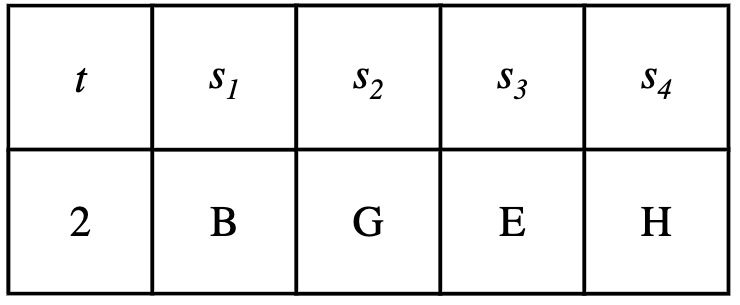
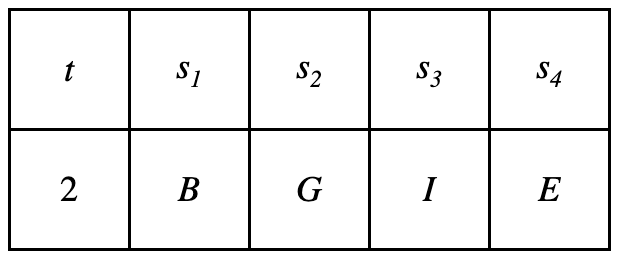
revise the example

diff --git a/docs/website/src/intro.md b/docs/website/src/intro.md
@@ -42,7 +42,7 @@ The prover begins by computing $H_1(1)$ to determine the first bin to explore.
 Suppose $H_1(1) = 3$, leading the prover to examine **Bin 3**. 
 From this bin, an element is selected, and suppose $A$ is chosen. 
 
-![](img/t11.png)
+![](img/t101.png)
 
 At this point, the current sequence is $(t, s_1) = (1, A)$.
 
@@ -53,9 +53,9 @@ At this point, the current sequence is $(t, s_1) = (1, A)$.
 Next, the prover computes $H_1(1, A)$ to identify the next bin. 
 Suppose $H_1(1, A) = 6$, directing the prover to **Bin 6**. 
 
-![](img/t12.png)
+![](img/t102.png)
 
-From this bin, an element is selected, and suppose $C$ is chosen, extending the sequence to $(t, s_1, s_2) = (1, A, C)$.
+This bin contains only one element, $C$, which extends the sequence to $(t, s_1, s_2) = (1, A, C)$.
 
 <p align="center">
   <img src="img/proof-12.png" alt="Alt Text" style="width:40%;">
@@ -64,19 +64,37 @@ From this bin, an element is selected, and suppose $C$ is chosen, extending the 
 Continuing the process, the prover computes $H_1(1, A, C)$ to find the next bin. 
 Suppose $H_1(1, A, C) = 9$, directing the prover to **Bin 9**. 
 
-![](img/t13.png)
+![](img/t103.png)
 
 However, **Bin 9 is empty**, meaning there is no valid extension for this sequence. 
+As a result, the prover **backtracks** to **Bin 6**.
+There is only one element in **Bin 6**, which is $C$.
+So, the prover **backtracks** to **Bin 3**.
+This time, instead of $A$, prover selects $J$ from **Bin 3**.
+
+![](img/t111.png)
+
+At this point, the current sequence is $(t, s_1) = (1, J)$.
+
+<p align="center">
+  <img src="img/proof-112.png" alt="Alt Text" style="width:40%;">
+</p>
+
+Next, the prover computes $H_1(1, J)$ to identify the next bin.
+Suppose $H_1(1, J) = 7$, directing the prover to **Bin 7**.
+
+![](img/t112.png)
+
+However, **Bin 7 is empty**, meaning there is no valid extension for this sequence.
 As a result, the prover **backtracks and attempts $t = 2$** instead.
 
 #### Attempting with $t = 2$
 The prover begins by computing $H_1(2)$ to determine the first bin to explore. 
 Suppose $H_1(2) = 8$, leading the prover to examine **Bin 8**. 
 
-![](img/t21.png)
+![](img/t201.png)
 
-From this bin, an element is selected, and suppose $B$ is chosen. 
-At this point, the current sequence is $(t, s_1) = (2, B)$.
+This bin contains only one element, $B$, which extends the sequence to $(t, s_1) = (2, B)$.
 
 <p align="center">
   <img src="img/proof-21.png" alt="Alt Text" style="width:40%;">
@@ -85,31 +103,45 @@ At this point, the current sequence is $(t, s_1) = (2, B)$.
 Next, the prover computes $H_1(2, B)$ to identify the next bin. 
 Suppose $H_1(2, B) = 5$, directing the prover to **Bin 5**. 
 
-![](img/t22.png)
+![](img/t202.png)
 
-From this bin, an element is selected, and suppose $G$ is chosen, extending the sequence to $(t, s_1, s_2) = (2, B, G)$.
+This bin has a single element, $G$, which is added to extend the sequence to $(t, s_1, s_2) = (2, B, G)$.
 
 <p align="center">
   <img src="img/proof-22.png" alt="Alt Text" style="width:40%;">
 </p>
 
 Continuing the process, the prover computes $H_1(2, B, G)$ to find the next bin. 
-Suppose $H_1(2, B, G) = 10$, directing the prover to **Bin 10**. 
+Suppose $H_1(2, B, G) = 11$, directing the prover to **Bin 11**. 
 
-![](img/t23.png)
+![](img/t2030.png)
 
-From this bin, $E$ is selected, updating the sequence to $(t, s_1, s_2, s_3) = (2, B, G, E)$.
+From this bin, $H$ is selected, updating the sequence to $(t, s_1, s_2, s_3) = (2, B, G, H)$.
 
 <p align="center">
-  <img src="img/proof-23.png" alt="Alt Text" style="width:40%;">
+  <img src="img/proof-230.png" alt="Alt Text" style="width:40%;">
 </p>
 
-Finally, the prover computes $H_1(2, B, G, E)$ to determine the next bin. 
-Suppose $H_1(2, B, G, E) = 11$, leading to **Bin 11**, which contains multiple elements. 
+Then, the prover computes $H_1(2, B, G, H)$ to determine the next bin. 
+Suppose $H_1(2, B, G, H) = 12$, leading to **Bin 12**, which contains no elements.
+It means that there is no valid extension for this sequence.
+As a result, the prover **backtracks** to **Bin 11**.
 
-![](img/t24.png)
+![](img/t2031.png)
 
-The prover selects $H$, completing the sequence as $(t, s_1, s_2, s_3, s_4) = (2, B, G, E, H)$.
+The prover selects $I$, updating the sequence as $(t, s_1, s_2, s_3) = (2, B, G, I)$.
+
+<p align="center">
+  <img src="img/proof-231.png" alt="Alt Text" style="width:40%;">
+</p>
+
+Finally, the prover computes $H_1(2, B, G, I)$ to determine the next bin.
+Suppose $H_1(2, B, G, I) = 10$, leading to **Bin 10**.
+
+![](img/t204.png)
+
+From this bin, $E$ is selected, completing the sequence to $(t, s_1, s_2, s_3) = (2, B, G, I, E)$.
+
 
 <p align="center">
   <img src="img/proof-24.png" alt="Alt Text" style="width:40%;">
@@ -117,13 +149,13 @@ The prover selects $H$, completing the sequence as $(t, s_1, s_2, s_3, s_4) = (2
 
 
 ### Step 3: Final proof selection
-- After reaching a tuple of length $u = 4$:
+After reaching a tuple of length $u = 4$:
 
 <p align="center">
   <img src="img/proof.png" alt="Alt Text" style="width:40%;">
 </p>
 
-- Compute $H_2(2, B, G, E, H)$.
+Prover computes $H_2(2, B, G, I, E)$.
   - If $H_2$ returns **1**, this tuple is **valid**, and we output it as the proof.
   - If not, we backtrack and try another sequence.
 
@@ -132,4 +164,4 @@ The prover selects $H$, completing the sequence as $(t, s_1, s_2, s_3, s_4) = (2
 The verifier checks the proof by ensuring that each step follows the binning structure and that the mappings determined by $H_1$ correctly match the prehashed bins. 
 Additionally, the verifier validates the final tuple using $H_2$. 
 
-If $H_2(2, B, G, E, H) = 1$, the proof is **accepted**.
+If $H_2(2, B, G, I, E) = 1$, the proof is **accepted**.
